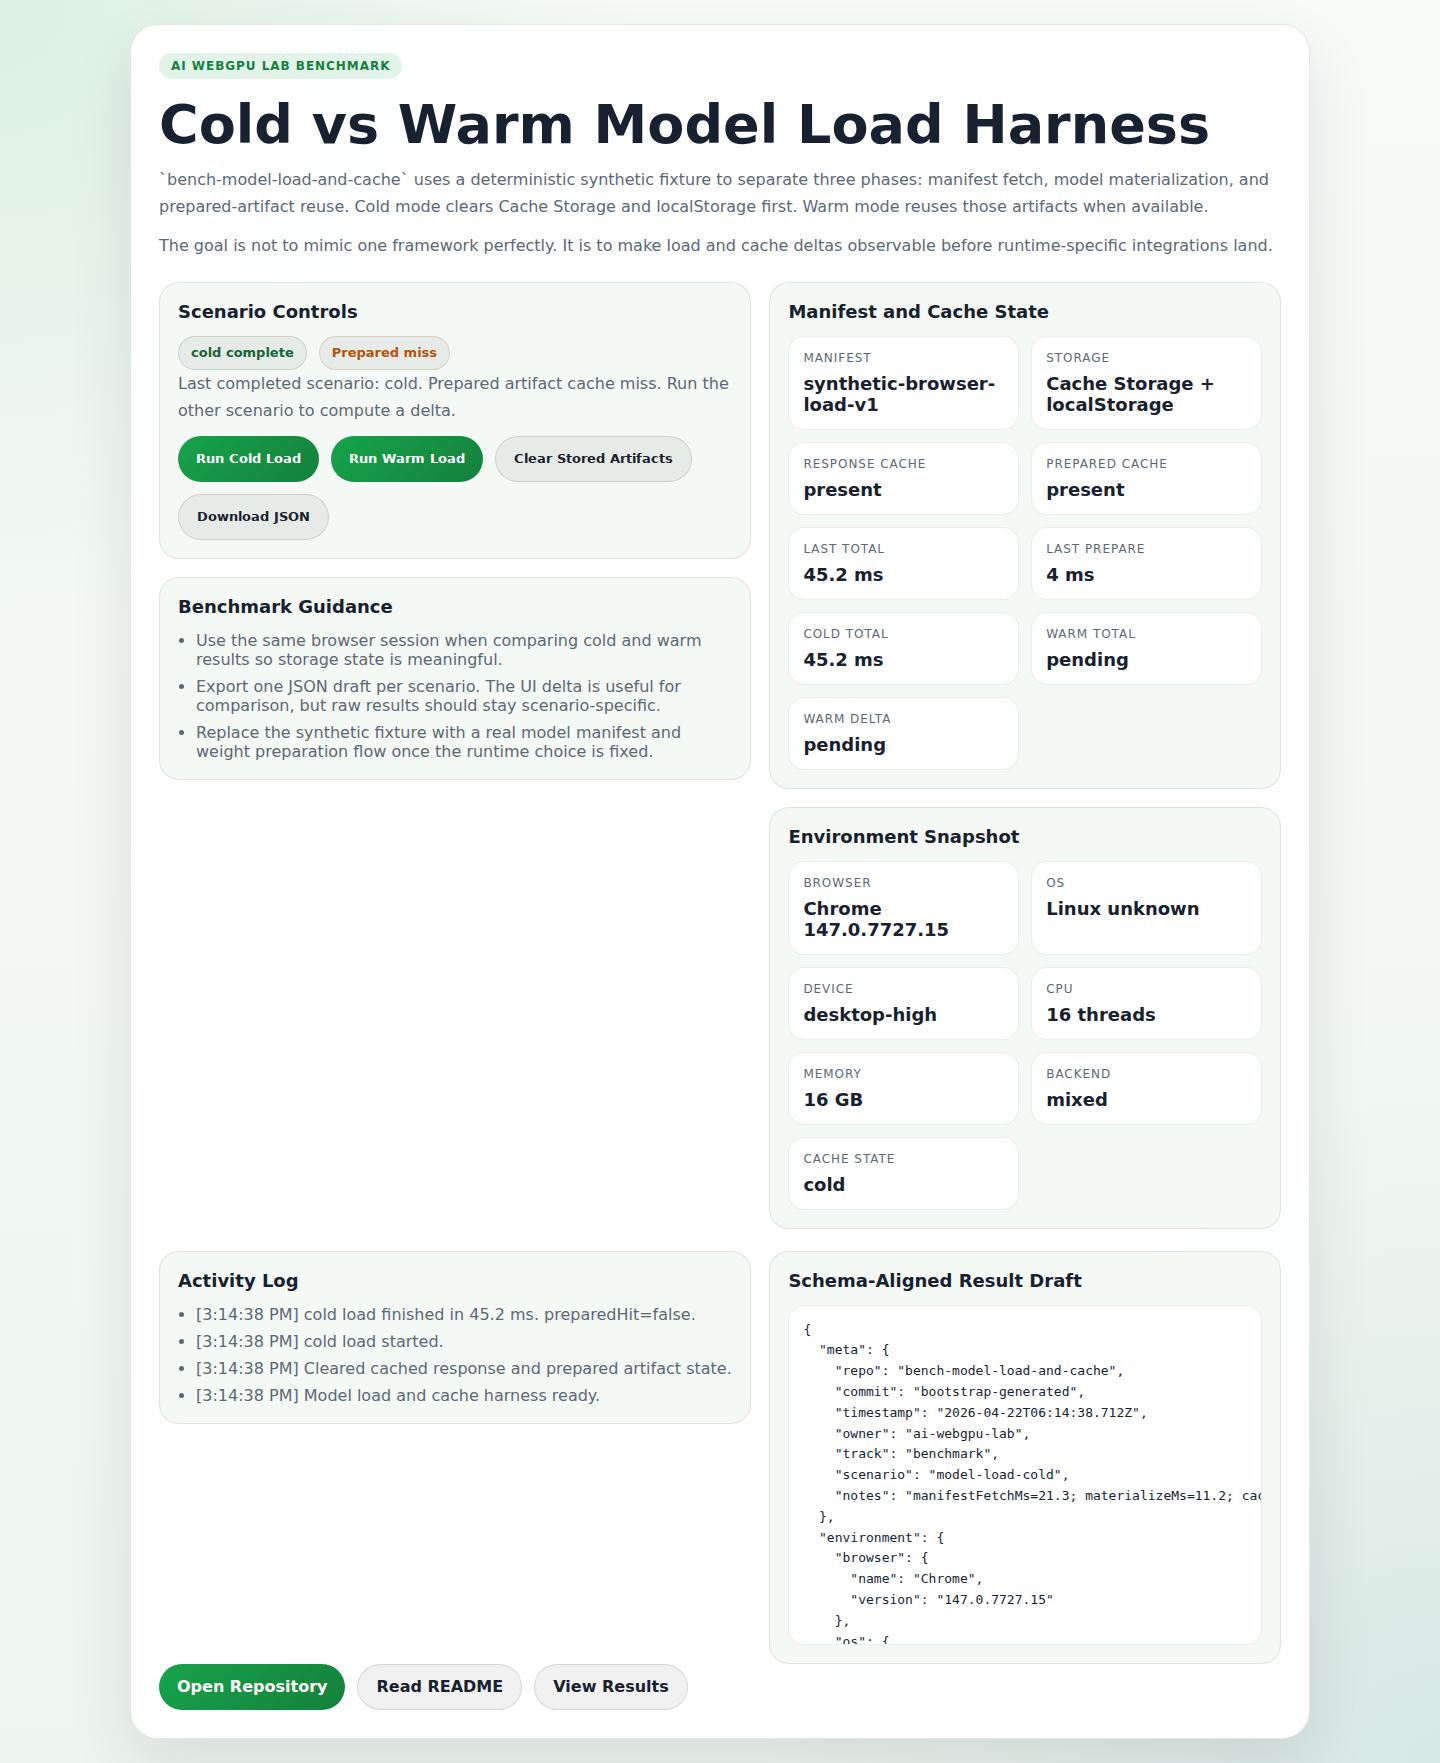
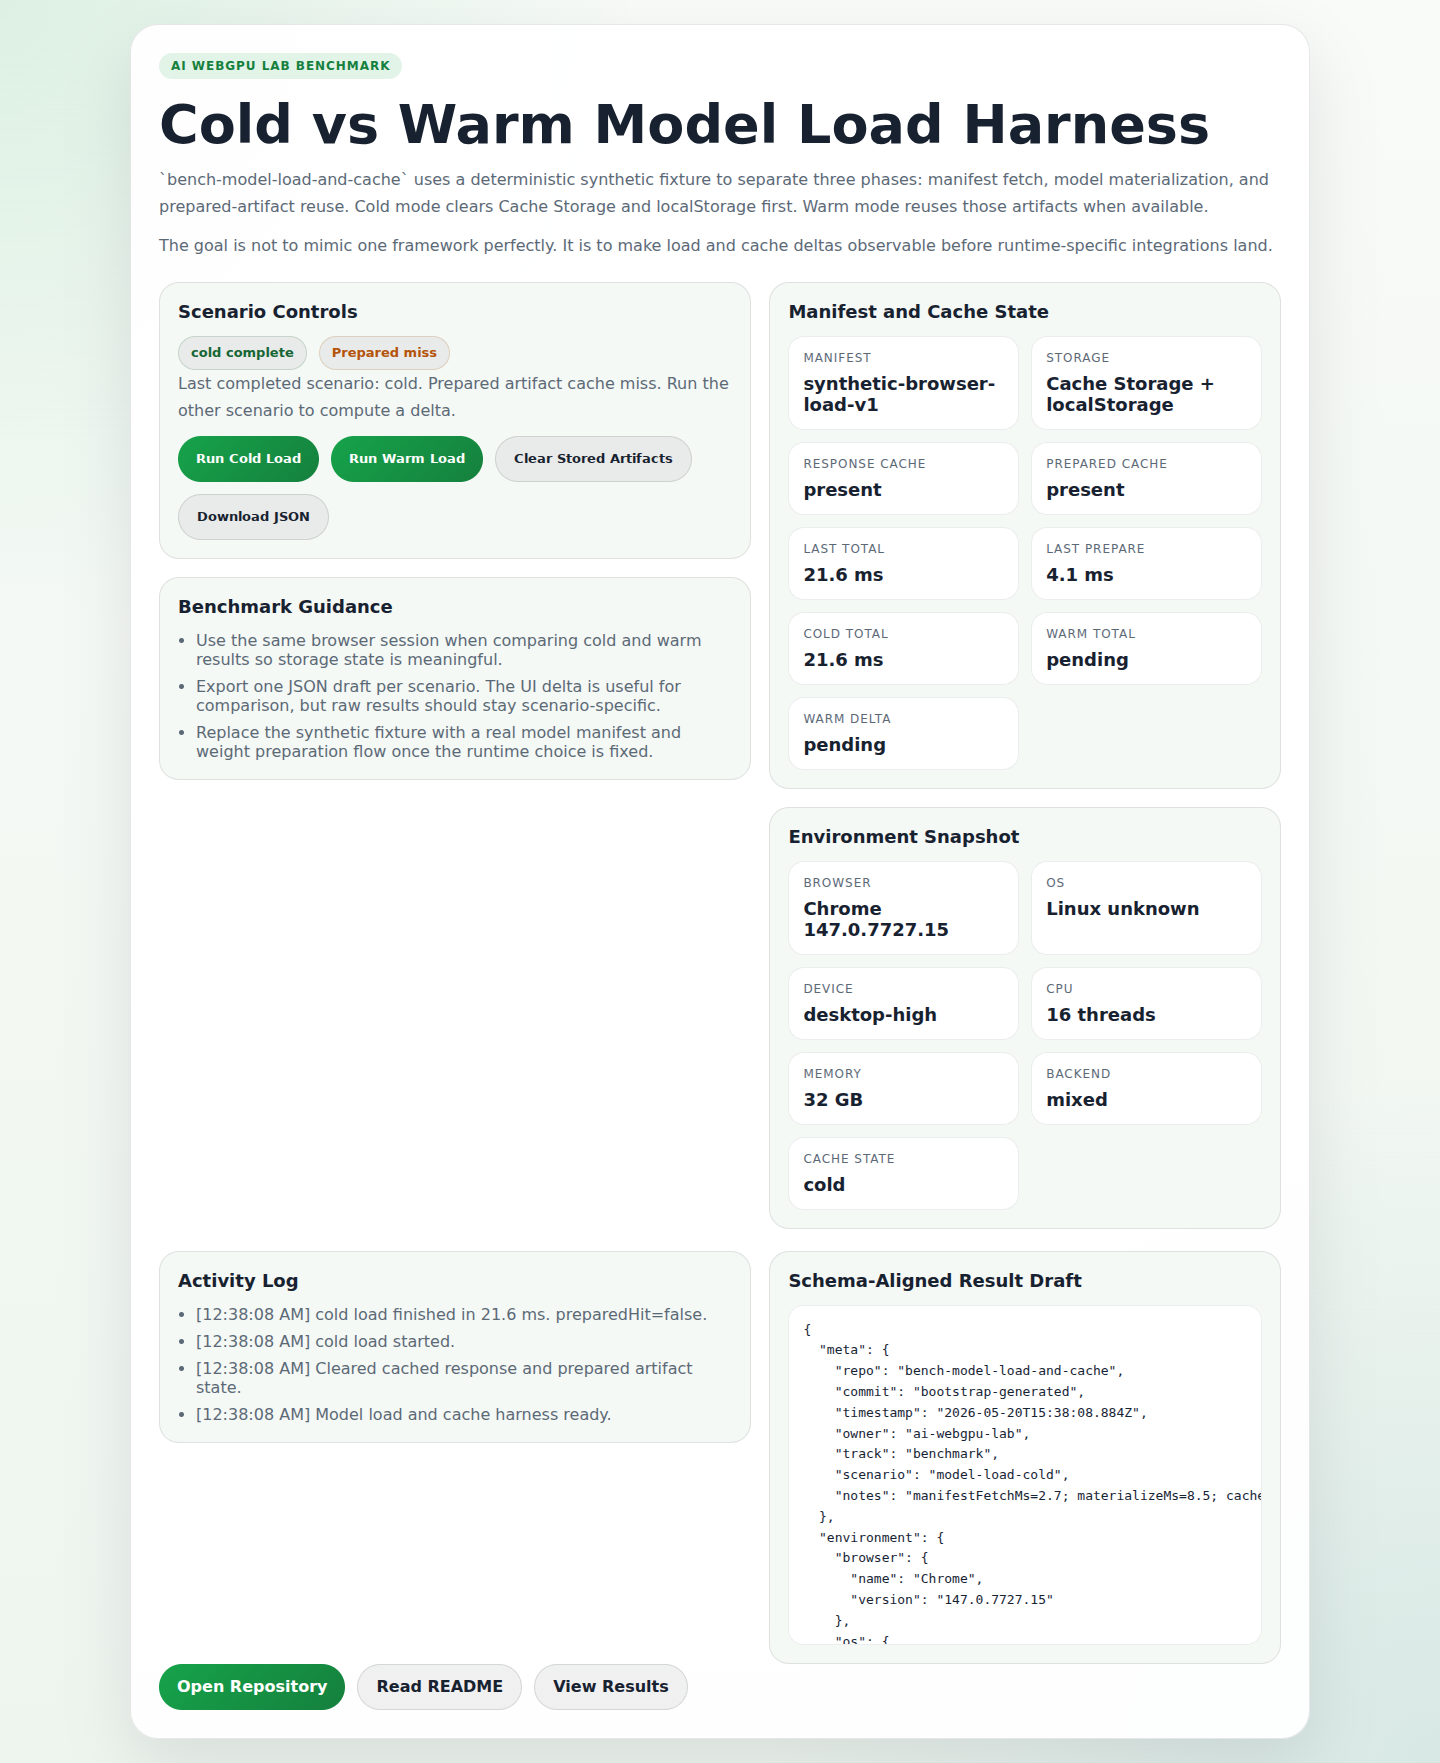
Record verified Pages baseline results

diff --git a/RESULTS.md b/RESULTS.md
@@ -2,8 +2,8 @@
 
 ## 1. 실험 요약
 - 저장소: bench-model-load-and-cache
-- 커밋 해시: d7fe1e9
-- 실험 일시: 2026-04-22T06:14:38.712Z -> 2026-04-22T06:14:39.117Z
+- 커밋 해시: f0aae4b
+- 실험 일시: 2026-05-20T15:38:08.884Z -> 2026-05-20T15:38:10.236Z
 - 담당자: ai-webgpu-lab
 - 실험 유형: `benchmark`
 - 상태: `success`
@@ -26,7 +26,7 @@
 - 장치명: Linux x86_64
 - device class: `desktop-high`
 - CPU: 16 threads
-- 메모리: 16 GB
+- 메모리: 32 GB
 - 전원 상태: `unknown`
 
 ### GPU / 실행 모드
@@ -41,7 +41,7 @@
 ## 4. 워크로드 정의
 - 시나리오 이름: Cold Load, Warm Load
 - 입력 프로필: 32768-synthetic-tokens
-- 데이터 크기: manifestFetchMs=21.3; materializeMs=11.2; cacheReadMs=0; prepareMs=4; preparedHit=false; Run both scenarios to capture cold/warm delta.; automation=playwright-chromium, manifestFetchMs=11.8; materializeMs=0; cacheReadMs=3.3; prepareMs=0; preparedHit=true; coldTotalMs=45.2; warmTotalMs=15.1; deltaMs=30.1; automation=playwright-chromium
+- 데이터 크기: manifestFetchMs=2.7; materializeMs=8.5; cacheReadMs=0; prepareMs=4.1; preparedHit=false; Run both scenarios to capture cold/warm delta.; automation=playwright-chromium, manifestFetchMs=10.5; materializeMs=0; cacheReadMs=7.1; prepareMs=0; preparedHit=true; Run both scenarios to capture cold/warm delta.; automation=playwright-chromium
 - dataset: -
 - model_id 또는 renderer: synthetic-browser-load-v1
 - 양자화/정밀도: -
@@ -51,25 +51,25 @@
 
 ## 5. 측정 지표
 ### 공통
-- time_to_interactive_ms: 170 ~ 575.9 ms
-- init_ms: 15.1 ~ 45.2 ms
+- time_to_interactive_ms: 83.5 ~ 177 ms
+- init_ms: 17.7 ~ 21.6 ms
 - success_rate: 1
-- peak_memory_note: 16 GB reported by browser
+- peak_memory_note: 32 GB reported by browser
 - error_type: -
 
 ### LLM / Benchmark
-- init_ms: 15.1 ~ 45.2 ms
+- init_ms: 17.7 ~ 21.6 ms
 - cache states: cold, warm
 - prepared hit states: false, true
 
 ## 6. 결과 표
 | Run | Scenario | Backend | Cache | Mean | P95 | Notes |
 |---|---|---:|---:|---:|---:|---|
-| 1 | Cold Load | mixed | cold | 45.2 | - | cache=cold, preparedHit=false |
-| 2 | Warm Load | mixed | warm | 15.1 | - | cache=warm, preparedHit=true |
+| 1 | Cold Load | mixed | cold | 21.6 | - | cache=cold, preparedHit=false |
+| 2 | Warm Load | mixed | warm | 17.7 | - | cache=warm, preparedHit=true |
 
 ## 7. 관찰
-- cold init_ms=45.2 ms, warm init_ms=15.1 ms, delta=30.1 ms였다.
+- cold init_ms=21.6 ms, warm init_ms=17.7 ms, delta=3.9 ms였다.
 - warm run meta.notes에는 preparedHit=true가 남아 cache reuse 경로가 실제로 기록됐다.
 - playwright-chromium로 수집된 automation baseline이며 headless=true, browser=Chromium 147.0.7727.15.
 - 실제 runtime/model/renderer 교체 전 deterministic harness 결과이므로, 절대 성능보다 보고 경로와 재현성 확인에 우선 의미가 있다.
